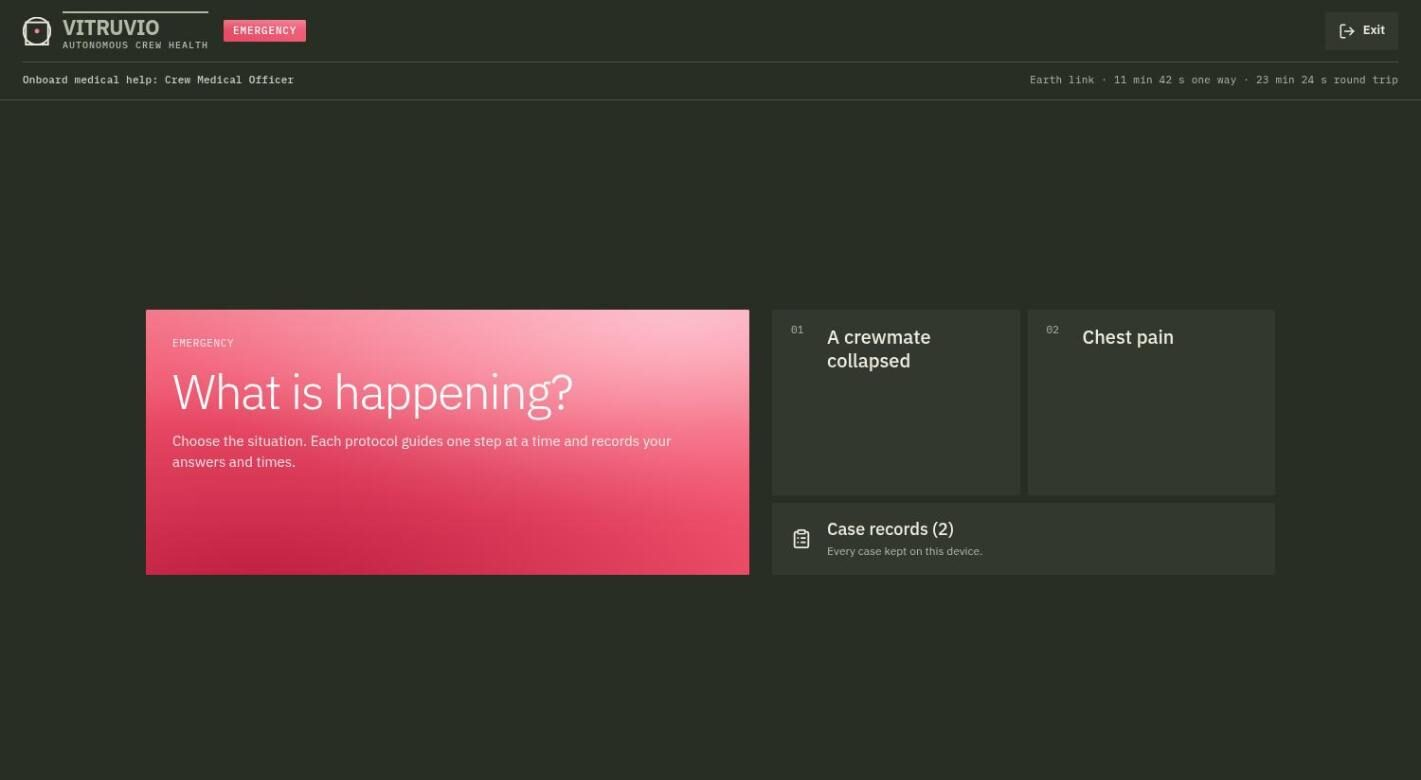
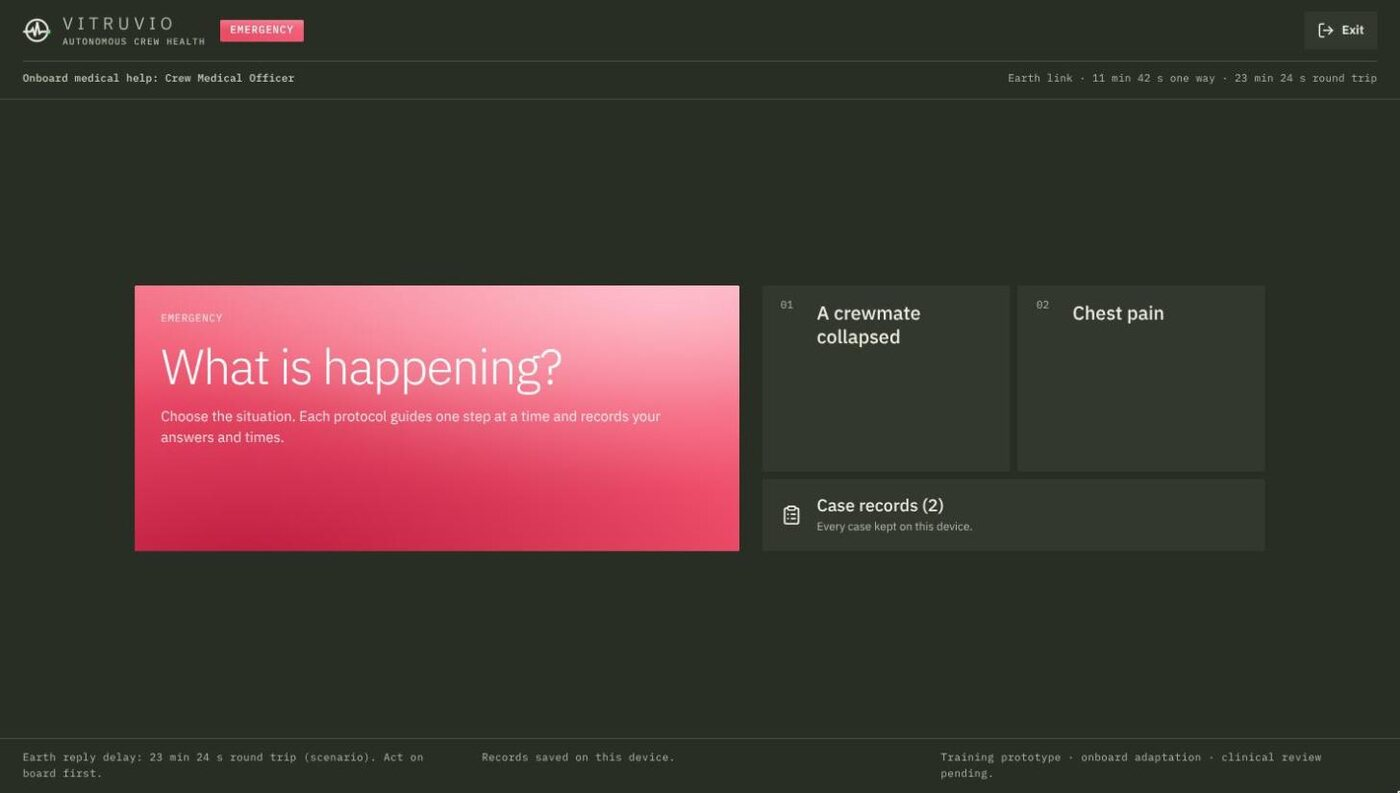
feat(landing): the console as a screen with tabs, fresh captures
The console section gets its own rhythm: title and way in on one line,
the console wide as a screen, and its four parts as tabs that run on
their own. Each part has its own up-to-date capture; the share card
shows the new hero. The section veils are lighter over the fibres.

Claude-Session: https://claude.ai/code/session_01VTTHVmm9PB5WUn89kFRwRP

diff --git a/src/landing/sections/sections.css b/src/landing/sections/sections.css
@@ -15,7 +15,7 @@
 
 /* Delay: two screens; the content holds on one while the signal crosses to Earth and back. The
    title and lede share the top row, the drawing takes the rest, the clock sits inside it. */
-.landing { --veil: rgba(22, 26, 19, 0.84); }
+.landing { --veil: rgba(22, 26, 19, 0.6); }
 /* Sections lie on the page's liquid under a veil, deep enough for text; the first fades in from
    the hero so the liquid never stops at a hard line. */
 .delay { position: relative; height: 200svh; background: linear-gradient(180deg, rgba(22, 26, 19, 0) 0, var(--veil) 40svh); }
@@ -91,15 +91,11 @@
 .how-plate, .lab-plate { box-shadow: 0 0 0 2px rgba(10, 12, 9, 0.45); }
 /* The baked liquid: three still pictures that cross-fade with the state and swell as the camera
    closes in. A dark veil and the blueprint grid keep the body readable over them. */
-.how-ground {
-  position: absolute; inset: -4%; background: center / cover no-repeat; opacity: 0;
-  transform: scale(calc(1 + var(--zoom) * 0.35)); transition: opacity 900ms ease;
-}
-.how-ground.is-on { opacity: 1; }
+.how-ground { position: absolute; inset: -4%; transform: scale(calc(1 + var(--zoom) * 0.35)); }
 .how-plate::before {
   content: ''; position: absolute; inset: 0; z-index: 1; pointer-events: none;
   background:
-    radial-gradient(ellipse at 50% 45%, rgba(20, 24, 18, 0.25), rgba(20, 24, 18, 0.78) 75%),
+    radial-gradient(ellipse at 50% 45%, rgba(20, 24, 18, 0.1), rgba(20, 24, 18, 0.55) 75%),
     linear-gradient(rgba(241, 242, 234, 0.05) 1px, transparent 1px) 0 0 / 100% 40px,
     linear-gradient(90deg, rgba(241, 242, 234, 0.05) 1px, transparent 1px) 0 0 / 40px 100%;
 }
@@ -121,61 +117,68 @@
 .twin-note::after { left: 8px; transform-origin: left; }
 .twin-note[data-side='left']::after { left: auto; right: 8px; transform-origin: right; }
 .twin-note-label {
-  position: absolute; top: 0; display: grid; gap: 2px; width: max-content; max-width: 260px; padding: 8px 10px 10px; white-space: nowrap; translate: var(--shift, 0px) -50%;
+  position: absolute; top: 0; left: 0; display: grid; gap: 2px; width: max-content; max-width: 260px; padding: 8px 10px 10px; white-space: nowrap; translate: var(--card, 84px) -50%;
   border-radius: 2px; background: rgba(22, 26, 19, 0.6); backdrop-filter: blur(10px); -webkit-backdrop-filter: blur(10px);
   animation: note-in 500ms 200ms ease both;
 }
-.twin-note .twin-note-label { left: 84px; }
-.twin-note[data-side='left'] .twin-note-label { left: auto; right: 84px; text-align: right; }
+.twin-note[data-side='left'] .twin-note-label { text-align: right; }
 .twin-note-label b { font: 500 10px/1.3 var(--vt-font-data); letter-spacing: 0.12em; text-transform: uppercase; color: var(--on-dark-3); }
 .twin-note-label em { font: 400 18px/1.2 var(--vt-font-ui); font-style: normal; color: var(--tone); }
 .twin-note-label small { max-width: 34ch; padding-top: 4px; margin-top: 2px; border-top: 1px solid rgba(241, 242, 234, 0.12); font: 400 12px/1.35 var(--vt-font-ui); white-space: normal; color: var(--on-dark); }
 @keyframes note-line { from { transform: scaleX(0); } }
 @keyframes note-in { from { opacity: 0; } }
 
-/* The lab: one screen. The list on the left marks its part of the real console on the right; the
-   capture sits on a flat plate (the page's liquid is the only gradient). */
-.lab { display: grid; align-items: start; height: 100svh; min-height: 680px; box-sizing: border-box; padding: 120px 0 56px; background: var(--veil); }
-.lab-grid { display: grid; grid-template-columns: minmax(0, 0.9fr) minmax(0, 1.5fr); align-items: start; gap: clamp(32px, 4vw, 64px); }
-.lab-copy { display: grid; justify-items: start; gap: 22px; }
-.lab-copy h2 { max-width: 15ch; }
-.lab-copy > p { max-width: 36ch; font-size: 16px; }
-.lab-parts { display: grid; width: 100%; margin: 4px 0; padding: 0; list-style: none; }
-.lab-parts li { border-top: 1px solid rgba(241, 242, 234, 0.12); }
-.lab-parts li:last-child { border-bottom: 1px solid rgba(241, 242, 234, 0.12); }
-.lab-parts button {
-  display: grid; grid-template-columns: 36px minmax(0, 1fr); align-items: baseline; width: 100%; min-height: 48px;
-  padding: 12px 0; border: 0; background: none; color: inherit; text-align: left; cursor: pointer;
-}
-.lab-parts button:focus-visible { outline: 2px solid #eef0e6; outline-offset: 2px; }
-.lab-num { font: 500 11px/1 var(--vt-font-data); letter-spacing: 0.12em; color: var(--on-dark-3); transition: color 240ms ease; }
-.lab-parts b { display: block; font: 400 17px/1.3 var(--vt-font-ui); color: var(--on-dark-2); transition: color 240ms ease; }
-.lab-parts small { display: block; margin-top: 2px; font-size: 13px; line-height: 1.4; color: var(--on-dark-3); }
-.lab-parts li.is-on b { color: var(--on-dark); }
-.lab-parts li.is-on .lab-num { color: #8fcf5c; }
+/* The console: a different rhythm from the steps above. The title and the way in share one line,
+   the real console runs the width of the page as a screen, and its parts are tabs underneath,
+   each with a bar that fills while its screen holds. */
+.lab { box-sizing: border-box; min-height: 100svh; padding: 112px 0 64px; background: var(--veil); }
+.lab-wrap { display: grid; gap: clamp(24px, 4vh, 40px); }
+.lab-head { display: grid; grid-template-columns: minmax(0, 1.1fr) minmax(0, 1fr); align-items: end; gap: 24px clamp(24px, 5vw, 80px); }
+.lab-head h2 { max-width: 16ch; }
+.lab-intro { display: grid; justify-items: start; gap: 18px; padding-bottom: 6px; }
+.lab-intro p { max-width: 40ch; font-size: clamp(16px, 1.2vw, 18px); }
 
-.lab-frame { position: relative; display: block; color: inherit; text-decoration: none; }
-.lab-plate { position: relative; display: block; padding: 32px; box-sizing: border-box; background: #1f241b; }
+.lab-screen {
+  position: relative; display: block; justify-self: center; width: min(100%, calc((100svh - 330px) * 1.765));
+  color: inherit; text-decoration: none; border-radius: 2px; overflow: hidden; background: #11140f;
+  box-shadow: 0 0 0 2px rgba(10, 12, 9, 0.45), 0 40px 80px -40px rgba(0, 0, 0, 0.8);
+}
 .lab-bar {
-  position: relative; display: flex; justify-content: space-between; padding: 8px 12px; background: #11140f;
+  position: relative; display: grid; grid-template-columns: auto 1fr auto; align-items: center; gap: 16px; padding: 9px 14px; background: #171b14;
   font: 500 10px/1.4 var(--vt-font-data); letter-spacing: 0.14em; text-transform: uppercase; color: var(--on-dark-3);
 }
+.lab-dots { display: flex; gap: 6px; }
+.lab-dots i { width: 7px; height: 7px; background: rgba(241, 242, 234, 0.16); }
+.lab-dots i:first-child { background: #8fcf5c; }
 .lab-shot { position: relative; display: block; overflow: hidden; background: #11140f; }
-.lab-shot img { display: block; width: 100%; height: auto; transition: transform 700ms cubic-bezier(0.16, 1, 0.3, 1); }
-.lab-frame:hover .lab-shot img { transform: scale(1.02); }
-.lab-frame:focus-visible { outline: 2px solid #eef0e6; outline-offset: 3px; }
-.lab-mark {
-  position: absolute; z-index: 1; display: grid; place-items: center; width: 26px; height: 26px; translate: -50% -50%;
-  border-radius: 2px; background: rgba(17, 20, 15, 0.82); color: var(--on-dark-2);
-  font: 500 10px/1 var(--vt-font-data); letter-spacing: 0.06em;
-  box-shadow: inset 0 0 0 1px rgba(241, 242, 234, 0.25); transition: background 240ms ease, color 240ms ease, box-shadow 240ms ease;
+.lab-shot img { display: block; width: 100%; height: auto; opacity: 0; transform: scale(1.015); transition: opacity 520ms ease, transform 900ms cubic-bezier(0.16, 1, 0.3, 1); }
+.lab-shot img + img { position: absolute; inset: 0; }
+.lab-shot img.is-on { opacity: 1; transform: scale(1); }
+.lab-screen:hover .lab-shot img.is-on { transform: scale(1.015); }
+.lab-screen:focus-visible { outline: 2px solid #eef0e6; outline-offset: 3px; }
+
+.lab-tabs { display: grid; grid-template-columns: repeat(4, minmax(0, 1fr)); gap: 6px; justify-self: center; width: min(100%, calc((100svh - 330px) * 1.765)); margin: 0; padding: 0; list-style: none; }
+.lab-tabs button {
+  position: relative; display: grid; grid-template-rows: auto auto 1fr auto; gap: 4px; width: 100%; height: 100%; min-height: 112px;
+  padding: 14px 16px 16px; box-sizing: border-box; border: 0; border-radius: 2px; background: rgba(241, 242, 234, 0.05);
+  color: inherit; text-align: left; cursor: pointer; transition: background 240ms ease;
 }
-.lab-mark.is-on { background: #8fcf5c; color: #13200f; box-shadow: 0 0 0 6px rgba(143, 207, 92, 0.25), 0 0 0 14px rgba(143, 207, 92, 0.1); }
-.lab-mark.is-on::after { content: ''; position: absolute; inset: -6px; border: 1px solid rgba(143, 207, 92, 0.7); animation: lab-ping 1.8s ease-out infinite; }
-@keyframes lab-ping { from { transform: scale(0.8); opacity: 1; } to { transform: scale(2.2); opacity: 0; } }
+.lab-tabs button:hover { background: rgba(241, 242, 234, 0.09); }
+.lab-tabs li.is-on button { background: rgba(241, 242, 234, 0.12); }
+.lab-tabs button:focus-visible { outline: 2px solid #eef0e6; outline-offset: 2px; }
+.lab-num { font: 500 11px/1 var(--vt-font-data); letter-spacing: 0.12em; color: var(--on-dark-3); transition: color 240ms ease; }
+.lab-tabs b { font: 400 17px/1.3 var(--vt-font-ui); color: var(--on-dark-2); transition: color 240ms ease; }
+.lab-tabs small { font-size: 13px; line-height: 1.4; color: var(--on-dark-3); }
+.lab-tabs li.is-on b { color: var(--on-dark); }
+.lab-tabs li.is-on .lab-num { color: #8fcf5c; }
+.lab-progress { position: relative; display: block; height: 2px; margin-top: 10px; background: rgba(241, 242, 234, 0.12); overflow: hidden; }
+.lab-progress i { position: absolute; inset: 0; background: #8fcf5c; transform: scaleX(0); transform-origin: left; }
+.lab-progress i.is-running { animation: lab-progress linear both; }
+.lab-progress i.is-full { transform: scaleX(1); }
+@keyframes lab-progress { to { transform: scaleX(1); } }
 
 /* Closing and footer: one screen. The way in on the state aura, then the team and the sources. */
-.closing { display: grid; height: 100svh; min-height: 720px; box-sizing: border-box; padding: 120px 0 32px; background: rgba(22, 26, 19, 0.9); }
+.closing { display: grid; height: 100svh; min-height: 720px; box-sizing: border-box; padding: 120px 0 32px; background: rgba(22, 26, 19, 0.7); }
 .closing-wrap { display: grid; grid-template-rows: auto auto 1fr; gap: 24px; }
 .closing-cta {
   position: relative; isolation: isolate; overflow: hidden;
@@ -230,17 +233,13 @@
   .twin-note .twin-note-label, .twin-note[data-side='left'] .twin-note-label { position: static; translate: none; text-align: left; max-width: 200px; }
   .twin-hud { left: 12px; right: 12px; bottom: 10px; }
 
-  /* The console: the capture right under the title, then the parts. */
-  .lab { height: auto; min-height: 100svh; padding-top: 96px; }
-  .lab-grid { grid-template-columns: minmax(0, 1fr); }
-  .lab-copy { display: contents; }
-  .lab-copy h2 { order: 1; }
-  .lab-copy > p { order: 2; }
-  .lab-frame { order: 3; }
-  .lab-parts { order: 4; }
-  .lab-copy > .landing-cta { order: 5; }
-  .lab-plate { padding: 12px; }
-  .lab-grid { gap: 20px; }
+  /* The console: title, the way in, the screen, then the tabs in two columns. */
+  .lab { padding-top: 96px; }
+  .lab-head { grid-template-columns: minmax(0, 1fr); }
+  .lab-screen, .lab-tabs { width: 100%; }
+  .lab-tabs { grid-template-columns: repeat(2, minmax(0, 1fr)); }
+  .lab-tabs button { min-height: 0; padding: 12px; }
+  .lab-tabs small { display: none; }
 
   .closing { height: auto; min-height: 100svh; padding-top: 96px; }
   .closing-grid, .closing-sources ul { grid-template-columns: minmax(0, 1fr); }
@@ -254,6 +253,6 @@
   .how-body { grid-template-rows: 1fr; transition: none; }
   .how-body p { padding-bottom: 20px; }
   .closing-cta, .delay-scene .delay-signal-ping, .bp .delay-light, .twin-note::after, .twin-note-label { animation: none; }
-  .lab-shot img, .lab-mark, .how-ground { transition: none; }
-  .lab-mark.is-on::after { animation: none; }
-}
+  .lab-shot img, .how-ground { transition: none; }
+  .lab-progress i.is-running { animation: none; transform: scaleX(1); }
+  }

diff --git a/src/landing/sections/Lab.tsx b/src/landing/sections/Lab.tsx
@@ -1,52 +1,83 @@
-import { useState } from 'react';
+import { useEffect, useRef, useState } from 'react';
 import { ArrowRight } from 'lucide-react';
 import { LAB_PATH } from '../../routes';
+import { useReducedMotion } from '../typing';
 
-/** What the console shows, each tied to where it sits on the real screen (percent of the capture). */
+/** What the console shows, each with its own capture of the real screen. */
 const PARTS = [
-  { id: 'twin', title: 'The body twin', body: 'Six systems, each coloured by the crew member’s own readings.', at: [49, 44] },
-  { id: 'news', title: 'The early warning score', body: 'NEWS2, with the reading behind every point.', at: [88, 16] },
-  { id: 'check', title: 'The daily check', body: 'Seven observations, guided one at a time.', at: [12, 82] },
-  { id: 'emergency', title: 'Emergency', body: 'One press to a timed, guided protocol.', at: [94, 90] },
+  { id: 'twin', title: 'The body twin', body: 'Six systems, each coloured by the crew member’s own readings.', shot: '/landing/lab-twin.jpg', alt: 'The console with the respiratory system open: both lungs in outline, the bronchial tree inside, and the oxygen saturation reading.' },
+  { id: 'news', title: 'The early warning score', body: 'NEWS2, with the reading behind every point.', shot: '/landing/lab-news2.jpg', alt: 'The early warning score: NEWS2 at 0 of 20, each of the seven observations with its value and its points.' },
+  { id: 'check', title: 'The daily check', body: 'Seven observations, guided one at a time.', shot: '/landing/lab-check.jpg', alt: 'The daily check-in: seven of seven NEWS2 observations recorded, with today’s readings.' },
+  { id: 'emergency', title: 'Emergency', body: 'One press to a timed, guided protocol.', shot: '/landing/lab-emergency.jpg', alt: 'Emergency mode: what is happening, with a protocol for a collapsed crewmate and one for chest pain.' },
 ] as const;
 
+/** Seconds each screen holds before the next one comes up on its own. */
+const HOLD = 6;
+
 /**
- * The real console, one screen. The list names what the crew uses most and each item marks its
- * place on the capture, so the screen reads as a tool rather than a picture.
+ * The real console, shown as a screen rather than a picture beside a list: the title and the way
+ * in on one line, the console wide underneath, and its four parts as tabs below it. The tabs run
+ * on their own, each with a bar that fills while its screen holds; touching one takes over.
  */
 export function Lab() {
-  const [active, setActive] = useState<(typeof PARTS)[number]['id']>('twin');
+  const [active, setActive] = useState(0);
+  const [held, setHeld] = useState(false);
+  const reduced = useReducedMotion();
+  const root = useRef<HTMLElement>(null);
+  const [inView, setInView] = useState(false);
+  useEffect(() => {
+    const node = root.current;
+    if (!node) return;
+    const observer = new IntersectionObserver(([entry]) => setInView(entry.isIntersecting), { threshold: 0.35 });
+    observer.observe(node);
+    return () => observer.disconnect();
+  }, []);
+  // The tour moves on while the section is in view and no one has chosen a part.
+  const running = inView && !held && !reduced;
+  useEffect(() => {
+    if (!running) return;
+    const timer = window.setTimeout(() => setActive((index) => (index + 1) % PARTS.length), HOLD * 1000);
+    return () => window.clearTimeout(timer);
+  }, [running, active]);
+  const choose = (index: number) => { setActive(index); setHeld(true); };
+  const part = PARTS[active];
+
   return (
-    <section className="lab" aria-labelledby="lab-title">
-      <div className="wrap lab-grid">
-        <div className="lab-copy">
+    <section ref={root} className="lab" aria-labelledby="lab-title">
+      <div className="wrap lab-wrap">
+        <header className="lab-head">
           <h2 id="lab-title">The console the crew opens every day.</h2>
-          <p>It runs in the browser with no connection and installs as an app on the station’s tablets.</p>
-          <ol className="lab-parts">
-            {PARTS.map((part, index) => (
-              <li key={part.id} className={active === part.id ? 'is-on' : ''} onPointerEnter={() => setActive(part.id)}>
-                <button type="button" onClick={() => setActive(part.id)} onFocus={() => setActive(part.id)} aria-pressed={active === part.id}>
-                  <span className="lab-num">{String(index + 1).padStart(2, '0')}</span>
-                  <span><b>{part.title}</b><small>{part.body}</small></span>
-                </button>
-              </li>
+          <div className="lab-intro">
+            <p>It runs in the browser with no connection and installs as an app on the station’s tablets.</p>
+            <a className="landing-cta is-primary" href={LAB_PATH}>Open the lab <ArrowRight size={16} aria-hidden="true" /></a>
+          </div>
+        </header>
+        <a className="lab-screen" href={LAB_PATH} aria-label={`Open the lab: ${part.title}`}>
+          <span className="lab-bar" aria-hidden="true">
+            <span className="lab-dots"><i /><i /><i /></span>
+            <span>vitruvio / lab · {part.title}</span>
+            <span>Offline · on board</span>
+          </span>
+          <span className="lab-shot">
+            {PARTS.map((item, index) => (
+              <img key={item.id} className={index === active ? 'is-on' : ''} src={item.shot} alt={index === active ? item.alt : ''} aria-hidden={index === active ? undefined : true} width={1400} height={793} loading="lazy" decoding="async" />
             ))}
-          </ol>
-          <a className="landing-cta is-primary" href={LAB_PATH}>Open the lab <ArrowRight size={16} aria-hidden="true" /></a>
-        </div>
-        <a className="lab-frame" href={LAB_PATH} aria-label="Open the lab">
-          <span className="lab-plate">
-            <span className="lab-bar" aria-hidden="true"><span>VITRUVIO / Lab</span><span>Offline · on board</span></span>
-            <span className="lab-shot">
-              <img src="/landing/lab-console.jpg" alt="The VITRUVIO console: the 3D body twin with six body systems, the early warning card and the daily check-in." width={1400} height={840} loading="lazy" decoding="async" />
-              {PARTS.map((part, index) => (
-                <span key={part.id} className={`lab-mark ${active === part.id ? 'is-on' : ''}`} style={{ left: `${part.at[0]}%`, top: `${part.at[1]}%` }} aria-hidden="true">
-                  {String(index + 1).padStart(2, '0')}
-                </span>
-              ))}
-            </span>
           </span>
         </a>
+        <ol className="lab-tabs" role="tablist" aria-label="What the console shows">
+          {PARTS.map((item, index) => (
+            <li key={item.id} className={index === active ? 'is-on' : ''}>
+              <button type="button" role="tab" aria-selected={index === active} onClick={() => choose(index)}>
+                <span className="lab-num">{String(index + 1).padStart(2, '0')}</span>
+                <b>{item.title}</b>
+                <small>{item.body}</small>
+                <span className="lab-progress" aria-hidden="true">
+                  <i key={`${active}-${running}`} className={index === active && running ? 'is-running' : index === active ? 'is-full' : ''} style={{ animationDuration: `${HOLD}s` }} />
+                </span>
+              </button>
+            </li>
+          ))}
+        </ol>
       </div>
     </section>
   );
